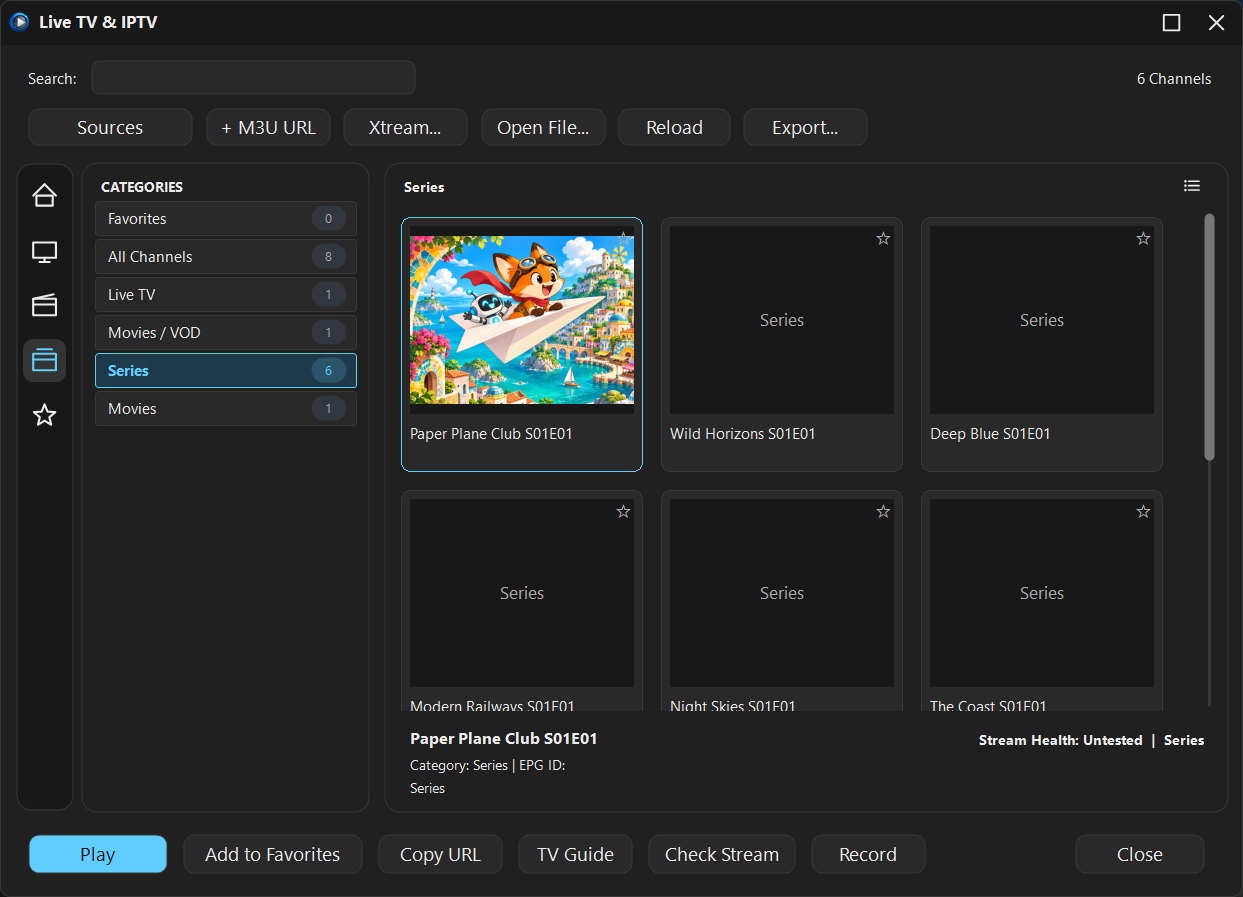
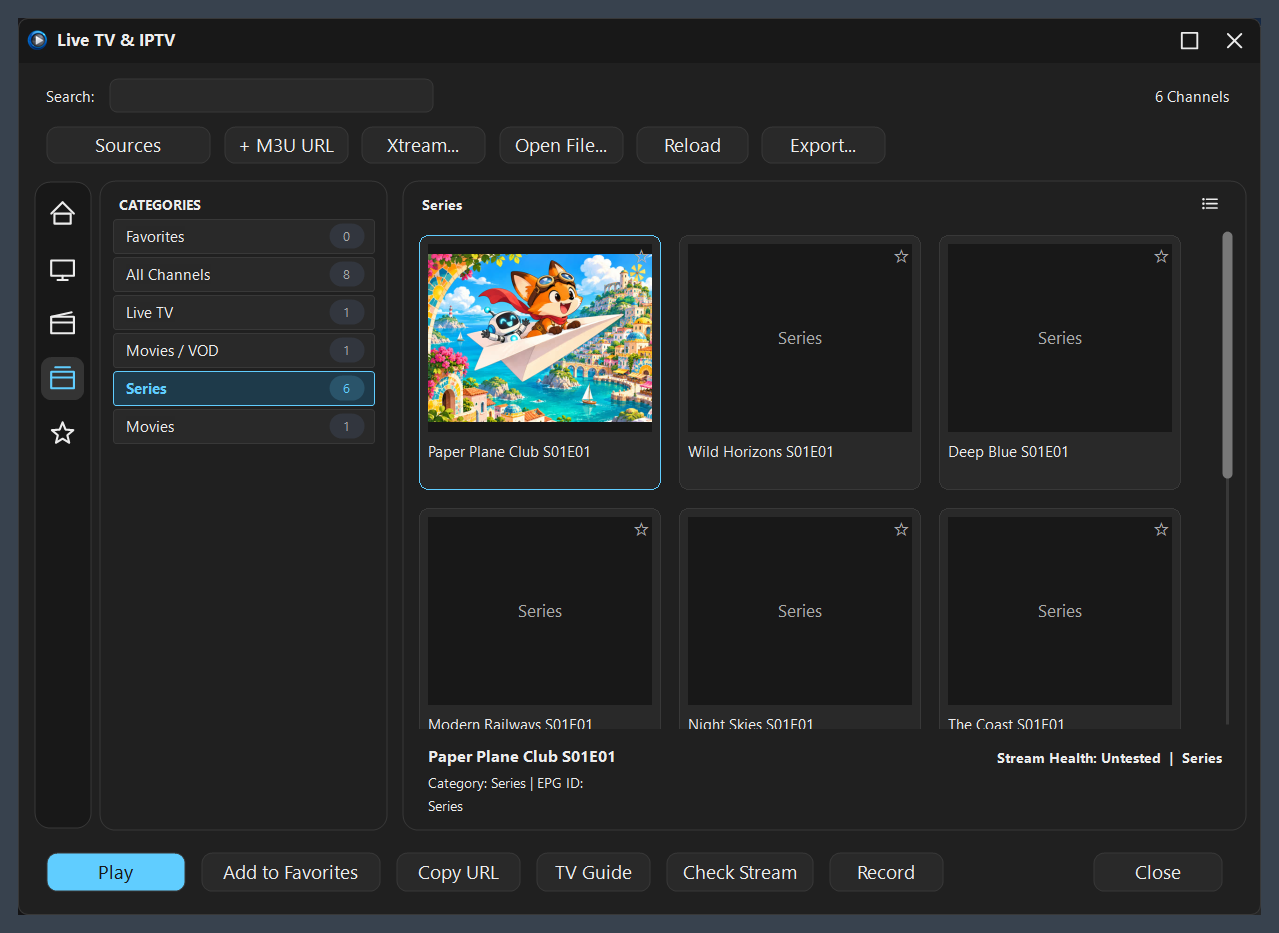
Show IPTV gallery captures in the selected site language

diff --git a/index.html b/index.html
@@ -42,12 +42,8 @@
 <a href="assets/player.png"><img src="assets/player.png" alt="VLC Modern playing the Cartoon Sky demo" loading="lazy"><span lang="en">Video playback</span><span lang="ar">تشغيل الفيديو</span></a>
 <a href="assets/preferences.png"><img src="assets/preferences.png" alt="Dark Mode settings" loading="lazy"><span lang="en">Settings · Dark Mode</span><span lang="ar">الإعدادات · داكن</span></a>
 <a href="assets/light-preferences.png"><img src="assets/light-preferences.png" alt="Light Mode settings" loading="lazy"><span lang="en">Settings · Light Mode</span><span lang="ar">الإعدادات · فاتح</span></a>
-<a href="assets/iptv-en.png"><img src="assets/iptv-en.png" alt="IPTV library in English" loading="lazy"><span lang="en">IPTV in English</span><span lang="ar">مكتبة IPTV بالإنجليزي</span></a>
-<a href="assets/iptv-ar.png"><img src="assets/iptv-ar.png" alt="مكتبة IPTV بالعربية" loading="lazy"><span lang="en">IPTV in Arabic</span><span lang="ar">مكتبة IPTV بالعربي</span></a>
-<a href="assets/iptv-ar-grid-dark.png"><img src="assets/iptv-ar-grid-dark.png" alt="IPTV cards in Arabic, dark theme" loading="lazy"><span lang="en">IPTV cards · Arabic · dark</span><span lang="ar">بطاقات IPTV بالعربي · داكن</span></a>
-<a href="assets/iptv-ar-grid-light.png"><img src="assets/iptv-ar-grid-light.png" alt="IPTV cards in Arabic, light theme" loading="lazy"><span lang="en">IPTV cards · Arabic · light</span><span lang="ar">بطاقات IPTV بالعربي · فاتح</span></a>
-<a href="assets/iptv-en-grid-dark.png"><img src="assets/iptv-en-grid-dark.png" alt="IPTV cards in English, dark theme" loading="lazy"><span lang="en">IPTV cards · English · dark</span><span lang="ar">بطاقات IPTV بالإنجليزي · داكن</span></a>
-<a href="assets/iptv-en-grid-light.png"><img src="assets/iptv-en-grid-light.png" alt="IPTV cards in English, light theme" loading="lazy"><span lang="en">IPTV cards · English · light</span><span lang="ar">بطاقات IPTV بالإنجليزي · فاتح</span></a>
+<a href="assets/iptv-en-grid-dark.png" data-iptv-theme="dark"><img src="assets/iptv-en-grid-dark.png" alt="IPTV cards · dark" loading="lazy"><span lang="en">IPTV cards · dark</span><span lang="ar">بطاقات IPTV · داكن</span></a>
+<a href="assets/iptv-en-grid-light.png" data-iptv-theme="light"><img src="assets/iptv-en-grid-light.png" alt="IPTV cards · light" loading="lazy"><span lang="en">IPTV cards · light</span><span lang="ar">بطاقات IPTV · فاتح</span></a>
 <a href="assets/open-media.png"><img src="assets/open-media.png" alt="Network stream setup and cache settings" loading="lazy"><span lang="en">Network streams</span><span lang="ar">بث الشبكة</span></a>
 <a href="assets/convert-stream.png"><img src="assets/convert-stream.png" alt="Convert and Stream Media dialog" loading="lazy"><span lang="en">Media conversion</span><span lang="ar">تحويل الوسائط</span></a>
 <a href="assets/playlist.png"><img src="assets/playlist.png" alt="Docked playlist during playback" loading="lazy"><span lang="en">Docked playlist</span><span lang="ar">قائمة التشغيل الجانبية</span></a>

diff --git a/site.js b/site.js
@@ -3,6 +3,7 @@ const languageButtons = [...document.querySelectorAll("[data-language]")];
 function setLanguage(value) {
   const chosen = value === "ar" ? "ar" : "en";
   document.documentElement.lang = chosen;
+  document.dispatchEvent(new Event("gallerylanguagechange"));
   document.documentElement.dir = chosen === "ar" ? "rtl" : "ltr";
   languageButtons.forEach(button => button.setAttribute("aria-pressed", String(button.dataset.language === chosen)));
 }
@@ -172,12 +173,16 @@ if (shots.length) {
     current = (index + shots.length) % shots.length;
     const shot = shots[current];
     const original = shot.querySelector("img");
-    fullSize.href = shot.href;
-    screenshot.src = original.src;
-    screenshot.alt = original.alt;
+    const language = document.documentElement.lang;
+    const theme = shot.dataset.iptvTheme;
+    const source = theme ? `assets/iptv-${language}-grid-${theme}.png` : original.src;
+    const description = theme ? shot.querySelector(`[lang=${language}]`).textContent : original.alt;
+    fullSize.href = theme ? source : shot.href;
+    screenshot.src = source;
+    screenshot.alt = description;
     title.replaceChildren(...[...shot.querySelectorAll("span")].map(label => label.cloneNode(true)));
-    viewerImage.src = original.src;
-    viewerImage.alt = original.alt;
+    viewerImage.src = source;
+    viewerImage.alt = description;
     viewerTitle.replaceChildren(...[...shot.querySelectorAll("span")].map(label => label.cloneNode(true)));
     buttons.forEach((button, position) => button.setAttribute("aria-pressed", String(position === current)));
     figure.getAnimations().forEach(animation => animation.cancel());
@@ -188,6 +193,7 @@ if (shots.length) {
     updatePlayback();
   }
 
+  document.addEventListener("gallerylanguagechange", () => showScreenshot(current));
   gallery.classList.add("is-interactive");
   gallery.replaceChildren(figure);
   if ("IntersectionObserver" in window) {
